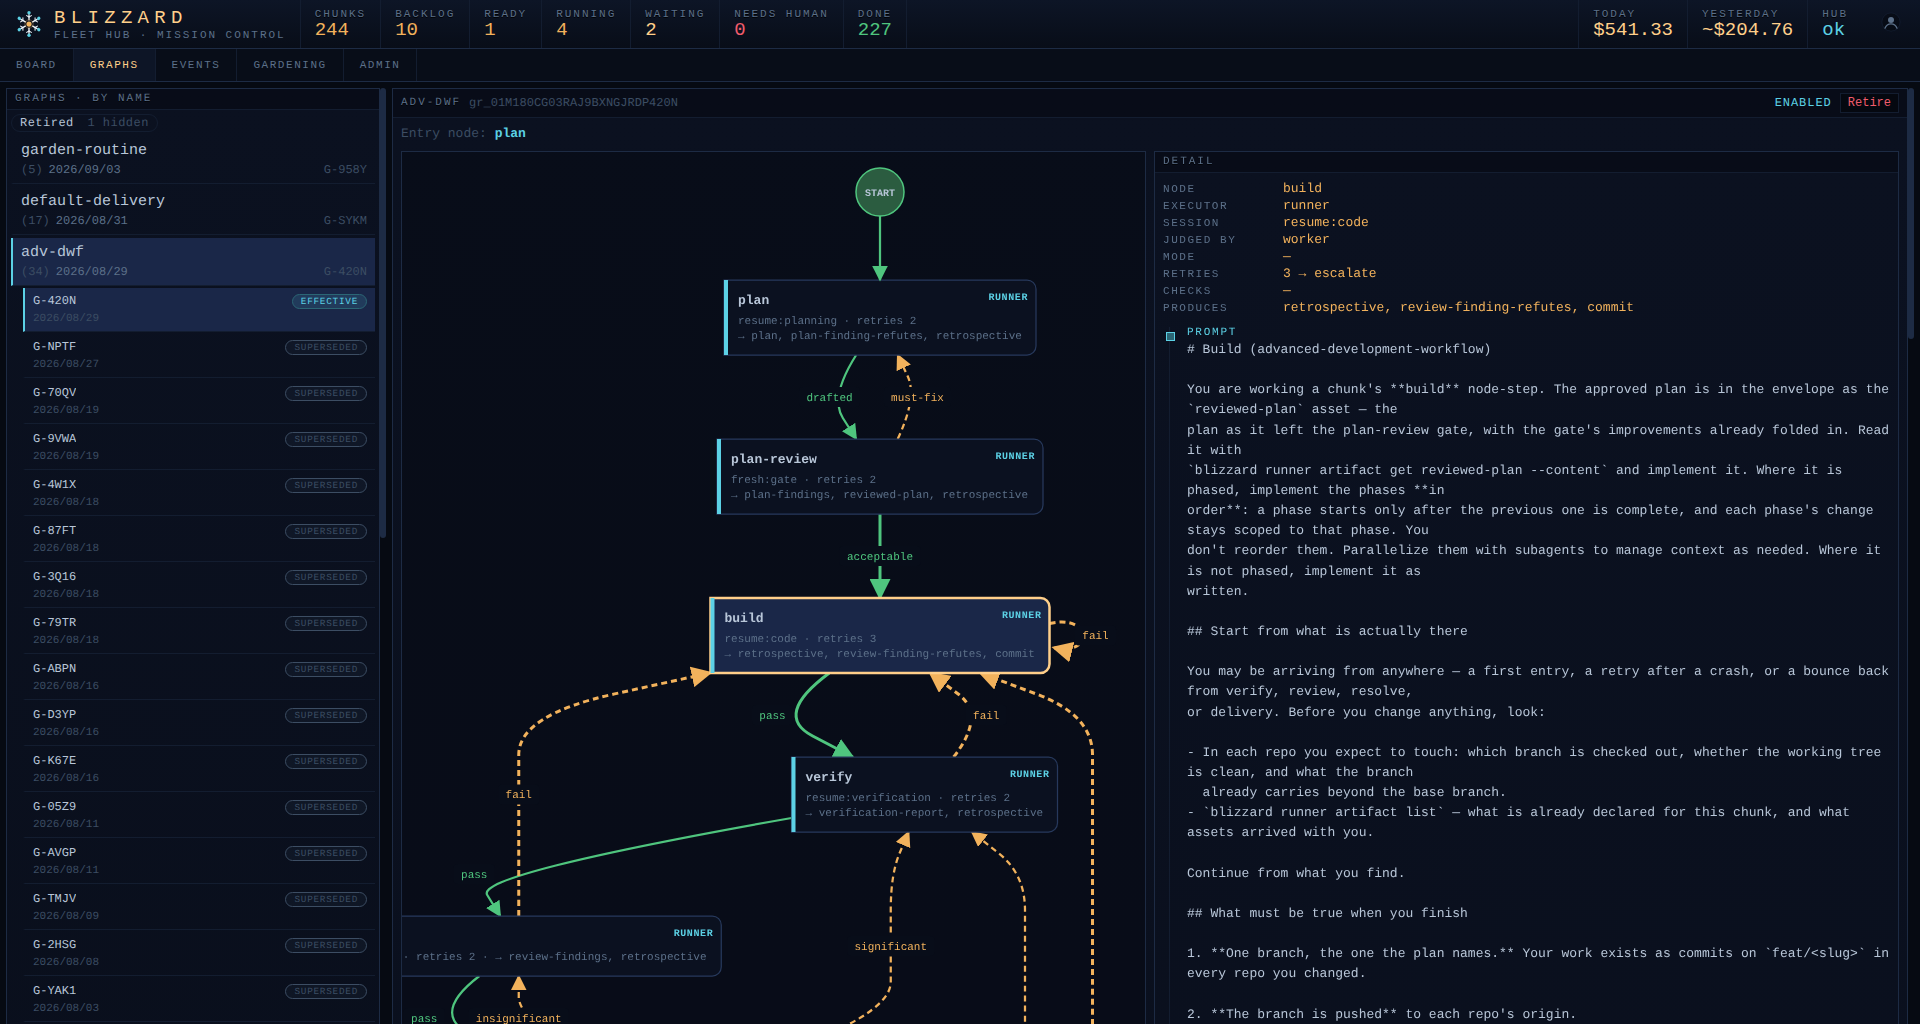
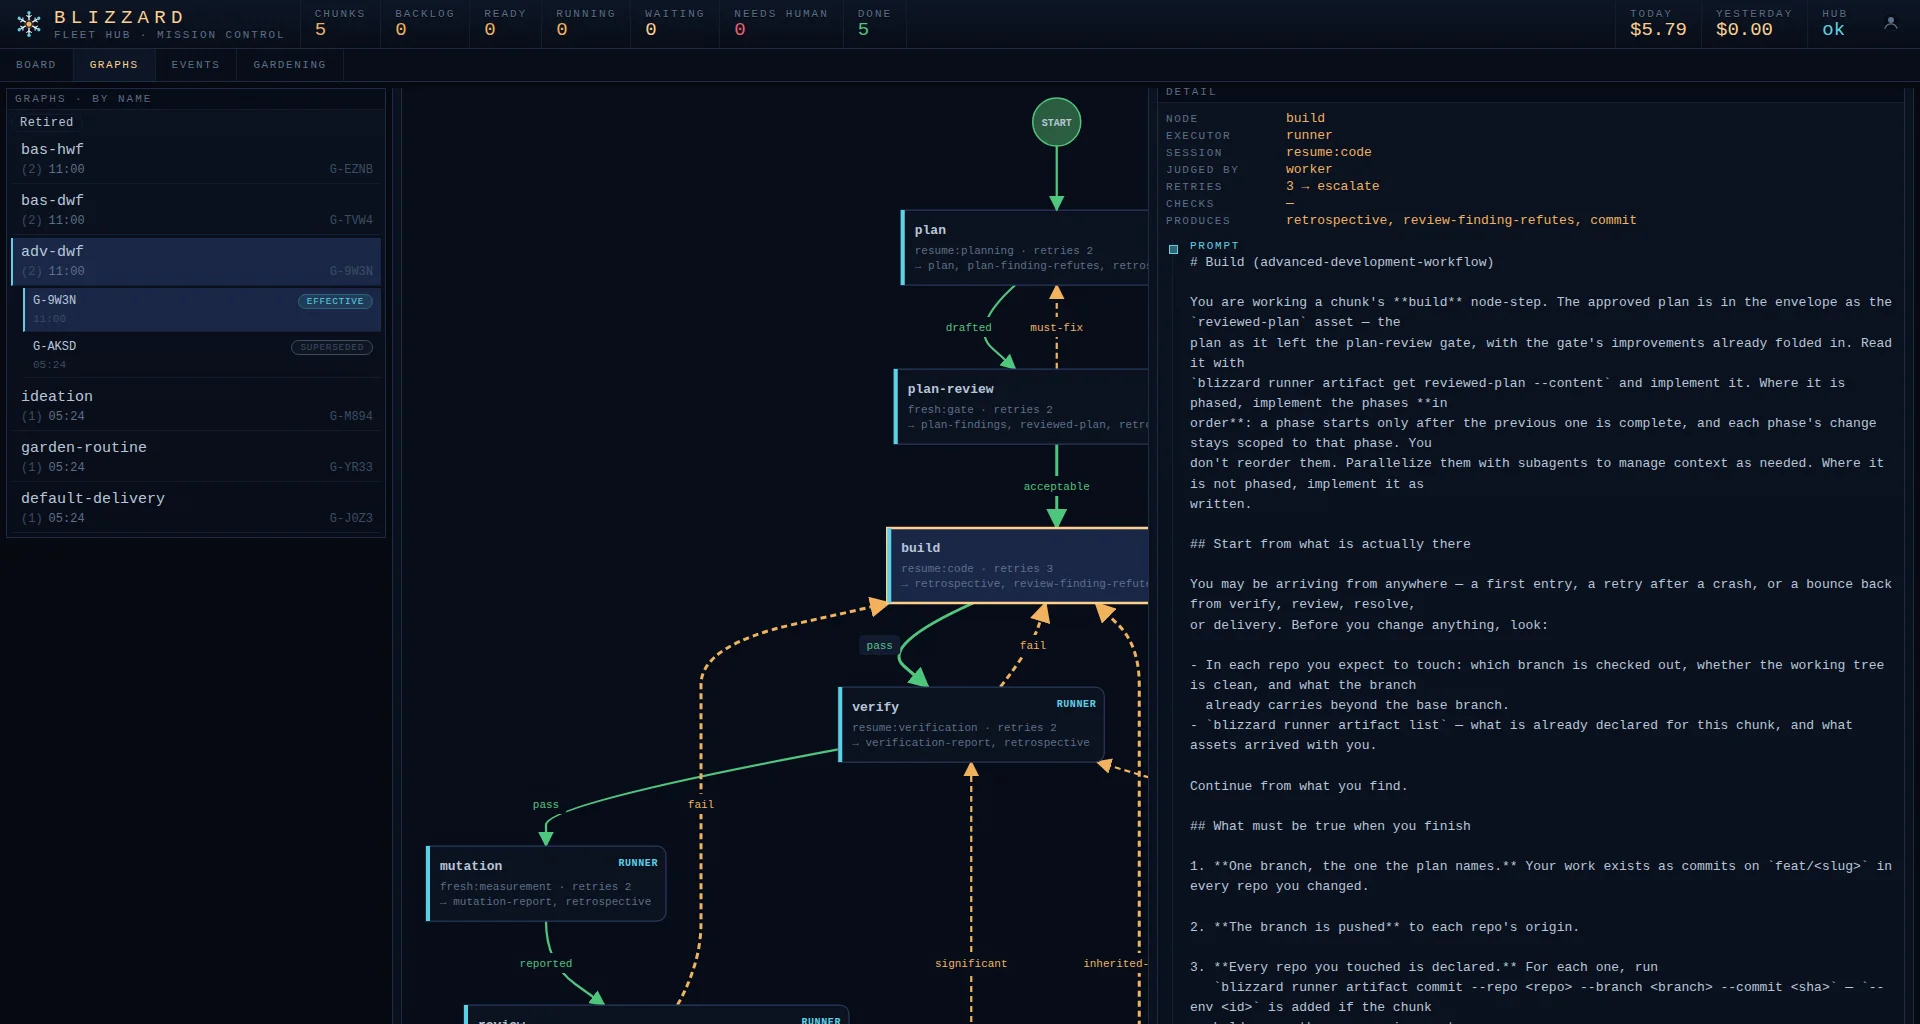
docs(blizzard): re-capture the graph explorer screenshot with the mutation node

diff --git a/README.md b/README.md
@@ -92,7 +92,7 @@ engineer's agents show up on the same board.
 <details>
 <summary><b>Design and build your own workflow</b></summary>
 <br>
-<img src="docs/media/graph-advanced-workflow.webp" alt="The graph explorer showing a workflow graph, with pass and fail edges drawn between the plan, plan-review, build, verify, and review nodes, including the cycles of the fix loop">
+<img src="docs/media/graph-advanced-workflow.webp" alt="The graph explorer showing a workflow graph, with pass and fail edges drawn between the plan, plan-review, build, verify, mutation, and review nodes, including the cycles of the fix loop">
 <p><sub>Work travels node to node, and each node is a fresh or resumed agent tuned to that one job. The edges close the
 loops: a failed gate routes back into <code>build</code> rather than off the rails, which is what makes the graph a
 place to do loop engineering.</sub></p>
